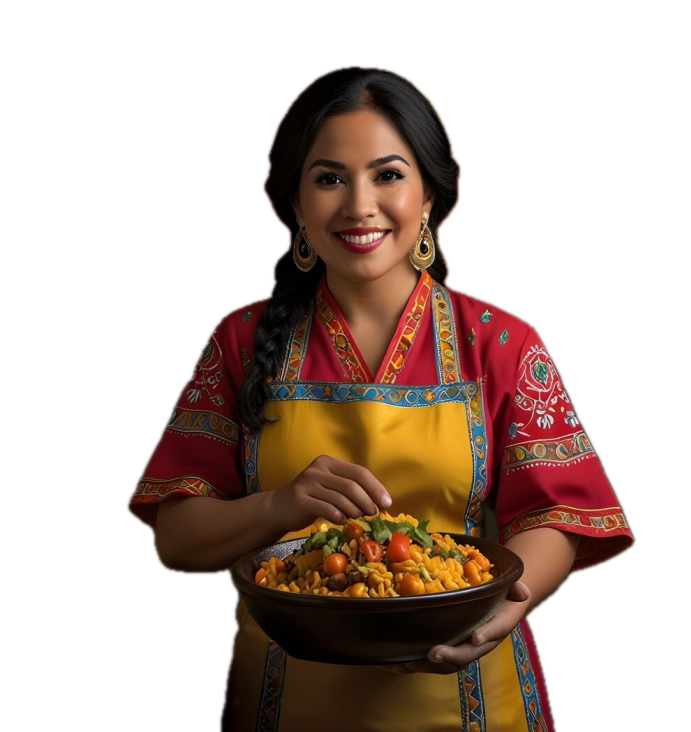
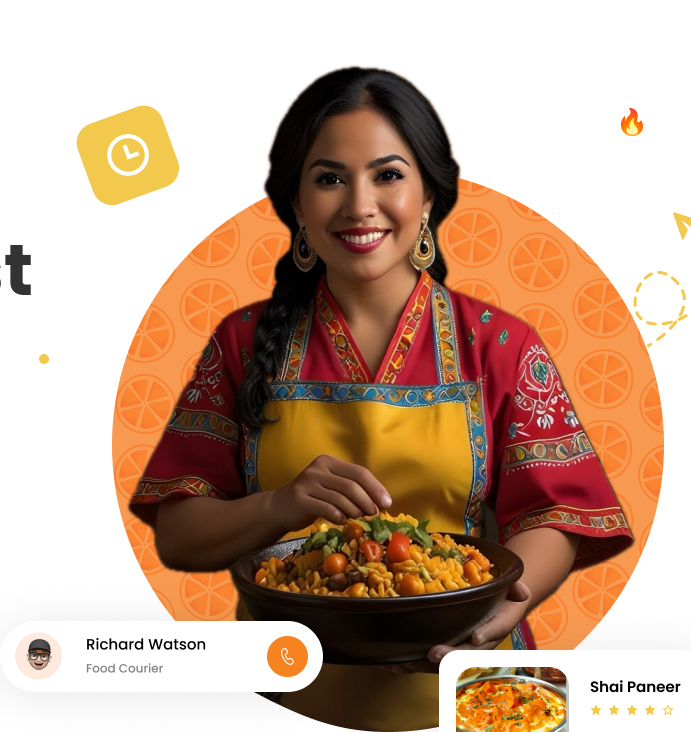
service section done

diff --git a/src/components/ServiceSection.jsx b/src/components/ServiceSection.jsx
@@ -1,0 +1,49 @@
+
+import truck from "../assets/truck.png"
+
+import womanphone from "../assets/womanphone.png";
+
+import waiters from "../assets/waiters.png";
+
+
+
+export function ServiceSection(){
+    return (
+      <div className="h-[559px] flex flex-col items-center mt-[119px] space-y-10 ">
+        <h1 className="text-orange-500 text-[18px] font-bold">WHAT WE SERVE</h1>
+        <h1 className="text-gray-800 font-extrabold text-5xl text-center w-[532px]">
+          Your Favorite Food Delivery Partner
+        </h1>
+
+        <div className="flex justify-between w-full h-full px-10 ">
+          <div className="flex flex-col justify-end space-y-4 p-2 text-center">
+            <img src={womanphone} alt="" />
+            <h1 className="text-3xl font-bold mt-2 text-gray-800">
+              Easy To Order
+            </h1>
+            <h2 className="text-lg text-center w-[314px] font-semibold text-gray-800 ">
+              You only need a few steps in ordering food
+            </h2>
+          </div>
+          <div className="flex flex-col justify-end space-y-4 p-2 text-center">
+            <img src={truck} alt="" />
+            <h1 className="text-3xl font-bold mt-2 text-gray-800">
+              Fastest Delivery
+            </h1>
+            <h2 className="text-lg text-center w-[314px] font-semibold text-gray-800 ">
+              Delivery that is always ontime even faster
+            </h2>
+          </div>{" "}
+          <div className="flex flex-col justify-end space-y-4 p-2 text-center">
+            <img src={waiters} alt="" />
+            <h1 className="text-3xl font-bold mt-2 text-gray-800">
+              Best Quality
+            </h1>
+            <h2 className="text-lg text-center w-[314px] font-semibold text-gray-800 ">
+              Not only fast for us quality is also number one
+            </h2>
+          </div>
+        </div>
+      </div>
+    );
+}

diff --git a/src/pages/homepage.jsx b/src/pages/homepage.jsx
@@ -1,12 +1,14 @@
 import { Herosection } from "../components/HeroSection";
+import { ServiceSection } from "../components/ServiceSection";
 import { TopBar } from "../components/TopBar";
 
 export function Homepage(){
     return (
       <div className="min-h-screen">
         <TopBar />
-        <div className="lg:mx-40">
+        <div className="lg:mx-40 mb-96">
           <Herosection />
+          <ServiceSection/>
         </div>
       </div>
     );

diff --git a/src/components/HeroSection.jsx b/src/components/HeroSection.jsx
@@ -1,4 +1,4 @@
-import image from "../assets/heroImage.png"
+import image from "../assets/Heroimage.png"
 
 
 export function Herosection() {
